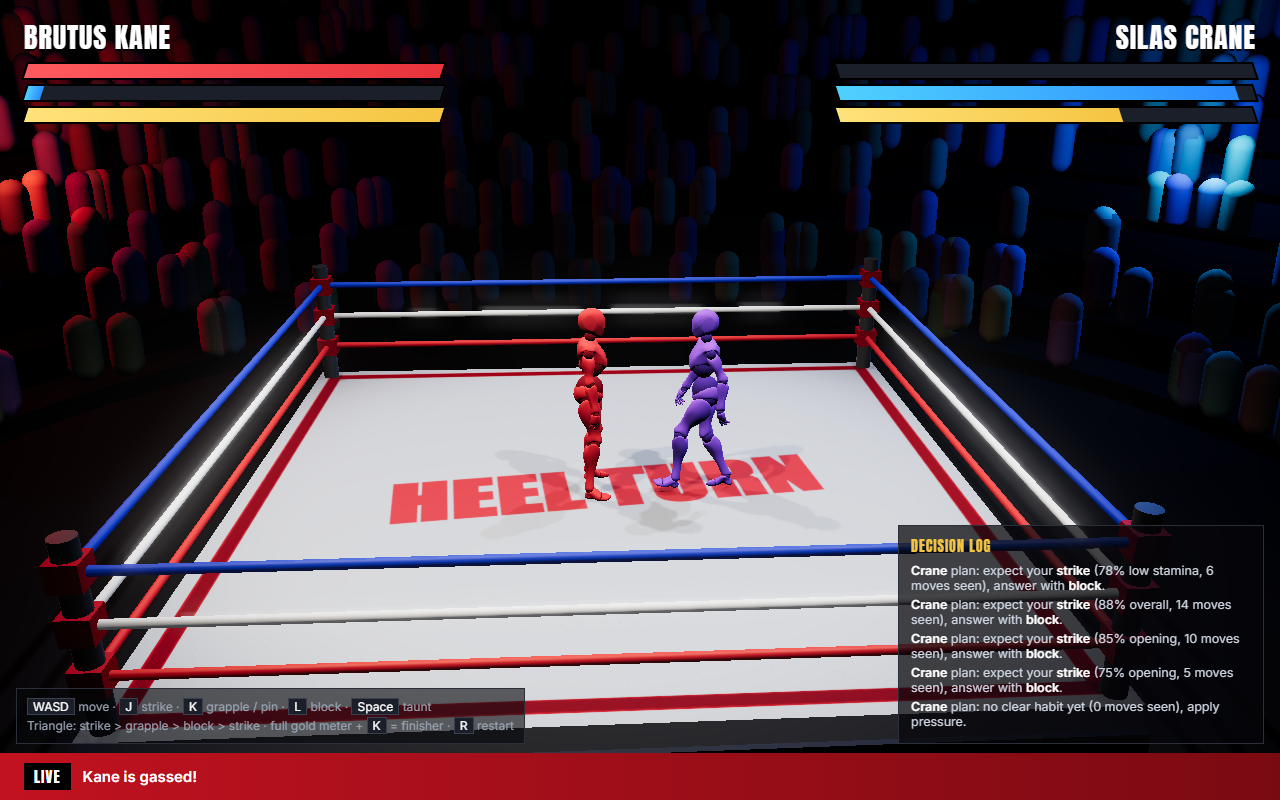
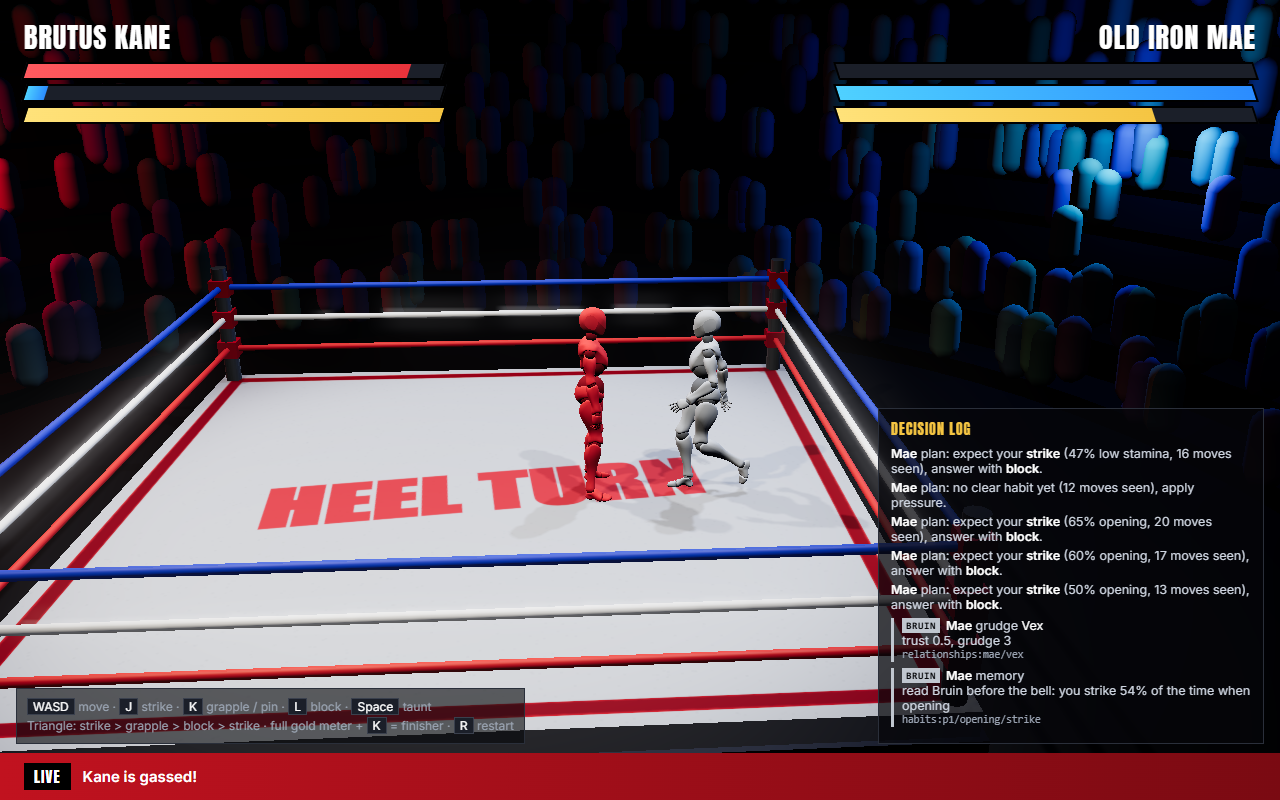
feat(memory): sim facts flow into Bruin; the next match's AI reads the marts
Every sim fact is appended to bruin/data/events.jsonl in the stg_events schema (roster ids,
situation), starting from the fixtures so seeded grudges survive. Match end kicks a Bruin
refresh server side (vite plugin for exhibition, the Colyseus room for online) without blocking
play. Before the bell the AI reads habits_all and feelings_of and logs the rows it cites.
bruin query locks the DuckDB file, so mart reads run one at a time.

Exhibition now picks a random opponent after the player's pick (no opponent step).

Verified: python game/ui/agents_check.py http://localhost:5173 2
events 464 -> 499 -> 535; habits:p1/opening/strike n 7 -> 16 -> 27.

diff --git a/game/agent-layer.js b/game/agent-layer.js
@@ -1,0 +1,96 @@
+// The sponsor-judged agent layer, seen from the client: Bruin memory (facts out, marts in), BAND agent
+// plans in the decision log, and the booth (voice). main.js calls the hooks; nothing here blocks a frame.
+//   const layer = createAgentLayer({ logRow, call });
+//   layer.matchStart({ match, wrestlers: [id, id], humans: [bool, bool] })  -> Promise<habits|null>
+//   layer.facts(facts)  layer.tick(simState)  layer.matchEnd()
+const SIM_TO_ROSTER = { kane: 'brutus' };
+const NAMES = { vex: 'Vex', kane: 'Kane', brutus: 'Kane', silas: 'Crane', mae: 'Mae', lou: 'Lou', commissioner: 'Commissioner' };
+const TINT = { vex: '#2b8cff', kane: '#e8333b', silas: '#8b5cf6', mae: '#c0c6cf', lou: '#f1f1f1' };
+const esc = (s) => String(s ?? '').replace(/[&<>"]/g, (c) => ({ '&': '&amp;', '<': '&lt;', '>': '&gt;', '"': '&quot;' }[c]));
+const post = (url, body) => fetch(url, { method: 'POST', headers: { 'Content-Type': 'application/json' }, body: JSON.stringify(body) });
+
+export function createAgentLayer({ logRow, call }) {
+  let cur = null; // { match, ids, humans, wrestlers, buf, flushT }
+  const debug = { written: 0, memory: null, plans: [], agents: null, errors: [] };
+  window.HEEL_DEBUG = () => debug;
+
+  function ids(wrestlers, humans) {
+    let n = 0; return wrestlers.map((id, i) => (humans[i] ? `p${++n}` : SIM_TO_ROSTER[id] || id));
+  }
+  function flush() {
+    if (!cur || !cur.buf.length) return Promise.resolve();
+    const facts = cur.buf; cur.buf = [];
+    return post('/mem/events', { match: cur.match, ids: cur.ids, facts })
+      .then((r) => r.json()).then((r) => { debug.written += r.written || 0; })
+      .catch((e) => debug.errors.push('mem/events ' + e.message));
+  }
+
+  async function matchStart({ match, wrestlers, humans }) {
+    if (cur) { clearInterval(cur.flushT); flush(); }
+    cur = { match, wrestlers, humans, ids: ids(wrestlers, humans), buf: [], flushT: setInterval(flush, 1000) };
+    const ai = wrestlers.find((_, i) => !humans[i]);
+    if (!ai) return null;
+    // Memory: the AI reads the player's habits and its grudges from the Bruin marts before the bell.
+    try {
+      const mem = await fetch(`/mem/for?player=p1&wrestler=${ai}`).then((r) => r.json());
+      debug.memory = mem;
+      if (mem.error) throw new Error(mem.error);
+      const habits = {}; let best = null;
+      for (const [sit, moves] of Object.entries(mem.habits || {})) {
+        habits[sit] = {};
+        for (const [mv, r] of Object.entries(moves)) {
+          habits[sit][mv] = 1 + Number(r.n || 0);
+          if (!best || r.n > best.n) best = { sit, mv, ...r };
+        }
+      }
+      const who = NAMES[ai] || ai;
+      if (best) logRow(planHtml({ wrestler: ai, intent: 'memory', reason: `read Bruin before the bell: you ${best.mv} ${Math.round(best.share * 100)}% of the time when ${best.sit.replace('_', ' ')}`, cites: [best.cite] }, 'BRUIN'));
+      else logRow(planHtml({ wrestler: ai, intent: 'memory', reason: 'Bruin has no habits for you yet: first meeting', cites: [] }, 'BRUIN'));
+      const g = (mem.feelings || [])[0];
+      if (g && g.grudge > 0) logRow(planHtml({ wrestler: ai, intent: 'grudge', target: g.about, reason: `trust ${g.trust}, grudge ${g.grudge}${g.last_betrayal ? `, betrayed in ${g.last_betrayal}` : ''}`, cites: [g.cite] }, 'BRUIN'));
+      debug.memoryText = `${who} habits from Bruin`;
+      return best ? habits : null;
+    } catch (e) {
+      debug.errors.push('mem/for ' + e.message);
+      return null;
+    }
+  }
+
+  function facts(list) { if (cur) cur.buf.push(...list); }
+
+  async function matchEnd() {
+    if (!cur) return;
+    clearInterval(cur.flushT);
+    await flush();
+    post('/mem/end', { match: cur.match }).catch(() => {}); // Bruin refresh runs server side; never awaited
+  }
+
+  return { matchStart, facts, matchEnd, tick() {}, debug };
+}
+
+// One decision-log row: source chip, who -> intent (target), the reason, then the mart rows it cites.
+export function planHtml(p, source = 'BAND') {
+  const who = NAMES[p.wrestler] || p.wrestler, tint = TINT[p.wrestler] || '#f5c542';
+  const tgt = p.target ? ` <span class="dl-t">${esc(NAMES[p.target] || p.target)}</span>` : '';
+  const verdict = p.vetoed_by ? ` <span class="dl-v no">blocked by ${esc(p.vetoed_by)}</span>` : p.approved_by ? ` <span class="dl-v">approved by ${esc(p.approved_by)}</span>` : '';
+  const cites = (p.cites || []).length ? `<span class="dl-c">${(p.cites || []).map(esc).join(' · ')}</span>` : '';
+  return `<span class="dl-row" style="--tint:${tint}"><span class="dl-src">${source}</span><em>${esc(who)}</em> ${esc(String(p.intent).replace('_', ' '))}${tgt}${verdict}`
+    + `<span class="dl-r">${esc(p.reason)}</span>${cites}</span>`;
+}
+
+// Decision-log styling for agent rows (injected so the shell's index.html stays the shell's).
+const css = document.createElement('style');
+css.textContent = `
+.log { width: 360px; max-height: 42vh; }
+.log p:has(.dl-row) { margin: 6px 0; }
+.dl-row { display: block; border-left: 3px solid var(--tint); padding-left: 8px; animation: dl-in .18s cubic-bezier(.2,.8,.2,1); }
+.dl-src { font: 600 9.5px/1 ui-monospace, Consolas, monospace; letter-spacing: .08em; color: #05060a; background: var(--tint); padding: 2px 4px; margin-right: 6px; vertical-align: 1px; }
+.dl-t { color: #fff; }
+.dl-v { color: #7ee0a1; font-size: 11px; } .dl-v.no { color: #ff8a8a; }
+.dl-r { display: block; color: #cfd6e1; }
+.dl-c { display: block; font: 10.5px/1.35 ui-monospace, Consolas, monospace; color: #9aa3b2; word-break: break-word; }
+@keyframes dl-in { from { opacity: 0; transform: translateY(-3px); } }
+@media (prefers-reduced-motion: reduce) { .dl-row { animation: none; } }
+@media (max-width: 720px) { .log { width: auto; left: 16px; max-height: 30vh; } }
+`;
+document.head.appendChild(css);

diff --git a/game/server/memory.js b/game/server/memory.js
@@ -1,0 +1,92 @@
+// Game memory on the server side: sim facts -> bruin/data/events.jsonl, a Bruin refresh between matches, and
+// cached mart reads for the next match. Used by the Colyseus room directly and by the browser through the
+// vite plugin (game/server/memory-plugin.js) for exhibition matches.
+import { appendFileSync, copyFileSync, existsSync, readFileSync, statSync } from 'node:fs';
+import { dirname, join } from 'node:path';
+import { fileURLToPath } from 'node:url';
+import { refreshMemory, ask } from '../../bruin/memory.mjs';
+
+const BRUIN = join(dirname(fileURLToPath(import.meta.url)), '..', '..', 'bruin');
+// Keys for the Bruin inference asset come from the repo .env (never logged); the shell's env wins.
+const ENV = join(BRUIN, '..', '.env');
+if (existsSync(ENV)) for (const line of readFileSync(ENV, 'utf8').split(/\r?\n/)) {
+  const m = line.match(/^\s*([A-Z0-9_]+)\s*=\s*(.*?)\s*$/);
+  if (m && !(m[1] in process.env)) process.env[m[1]] = m[2].replace(/^(['"])(.*)\1$/, '$2');
+}
+export const EVENTS = join(BRUIN, 'data', 'events.jsonl');
+const FIXTURES = join(BRUIN, 'fixtures', 'events.jsonl');
+const KINDS = new Set(['strike', 'grapple', 'block', 'reversal', 'knockdown', 'pin', 'kickout', 'elimination', 'entry',
+  'taunt', 'alliance_offer', 'alliance_reply', 'betray', 'plan', 'commentary']);
+const SITUATIONS = new Set(['opening', 'after_block', 'low_stamina', 'cornered']);
+const ROSTER = new Set(readFileSync(join(BRUIN, 'assets', 'seeds', 'wrestlers.csv'), 'utf8')
+  .split(/\r?\n/).slice(1).map((l) => l.split(',')[0]).filter(Boolean));
+const SIM_TO_ROSTER = { kane: 'brutus' }; // the sim's id for Brutus Kane
+
+// A sim slot -> Bruin roster id: humans are p1/p2 (habits are per player), AI slots are their wrestler.
+export function rosterIds(wrestlerIds, humanSlots) {
+  let n = 0;
+  return wrestlerIds.map((id, i) => (humanSlots[i] ? `p${++n}` : SIM_TO_ROSTER[id] || id));
+}
+
+const seq = new Map();
+// facts: sim 'fact' events (slots). ids: rosterIds(...). Drops anything the staging checks would reject,
+// since one bad row blocks the whole refresh.
+export function appendFacts(match, facts, ids) {
+  if (!existsSync(EVENTS) || statSync(EVENTS).size === 0) copyFileSync(FIXTURES, EVENTS); // keep the seeded history
+  const lines = [];
+  for (const f of facts) {
+    const actor = ids[f.actor], target = f.target == null ? null : ids[f.target];
+    if (!KINDS.has(f.kind) || !SITUATIONS.has(f.situation) || !ROSTER.has(actor) || (target && !ROSTER.has(target))) continue;
+    const n = (seq.get(match) || 0) + 1; seq.set(match, n);
+    const row = { event_id: `${match}-${String(n).padStart(4, '0')}`, match, t_ms: f.t_ms, actor, kind: f.kind, situation: f.situation };
+    if (target) row.target = target;
+    if (typeof f.success === 'boolean') row.success = f.success;
+    if (f.text) row.text = f.text;
+    lines.push(JSON.stringify(row));
+  }
+  if (lines.length) appendFileSync(EVENTS, lines.join('\n') + '\n');
+  return lines.length;
+}
+
+// One refresh at a time; a request during a refresh queues exactly one more. Never awaited by the game loop.
+let running = null, again = false;
+export const status = { refreshes: 0, lastOk: null, lastMs: null, lastAt: null, running: false };
+export function refreshSoon() {
+  if (running) { again = true; return running; }
+  status.running = true;
+  const t0 = Date.now();
+  running = refreshMemory().then((ok) => {
+    Object.assign(status, { refreshes: status.refreshes + 1, lastOk: ok, lastMs: Date.now() - t0, lastAt: new Date().toISOString(), running: false });
+    cache.clear();
+    console.log(`[memory] bruin refresh ${ok ? 'ok' : 'FAILED (a check blocked it; last good marts kept)'} in ${status.lastMs} ms`);
+  }).finally(() => { running = null; if (again) { again = false; refreshSoon(); } });
+  return running;
+}
+
+// Mart reads, cached until the next refresh (memory only changes between matches).
+// bruin query opens the DuckDB file read-write, so two at once fail on the lock: reads go one at a time.
+const cache = new Map();
+let lane = Promise.resolve();
+export async function askCached(name, vars = {}) {
+  const k = name + JSON.stringify(vars);
+  if (!cache.has(k)) {
+    const p = lane.then(() => ask(name, vars));
+    lane = p.catch(() => {});
+    cache.set(k, p.catch((e) => { cache.delete(k); throw e; }));
+  }
+  return cache.get(k);
+}
+
+// What the next match's AI reads: the player's habits in every situation, and who it holds grudges against.
+export async function memoryFor(player, wrestler) {
+  if (running) await running; // do not read half-written marts
+  const habits = {};
+  for (const row of await askCached('habits_all', { player })) (habits[row.situation] ||= {})[row.move] = { n: row.n, share: row.share, cite: row.cite };
+  const feelings = wrestler ? await askCached('feelings_of', { me: SIM_TO_ROSTER[wrestler] || wrestler }).catch(() => []) : [];
+  return { habits, feelings, refresh: { ...status } };
+}
+
+export function eventCount() {
+  if (!existsSync(EVENTS)) return 0;
+  return readFileSync(EVENTS, 'utf8').split('\n').filter(Boolean).length;
+}

diff --git a/game/main.js b/game/main.js
@@ -8,7 +8,8 @@ import { RenderPass } from 'three/examples/jsm/postprocessing/RenderPass.js';
 import { UnrealBloomPass } from 'three/examples/jsm/postprocessing/UnrealBloomPass.js';
 import { OutputPass } from 'three/examples/jsm/postprocessing/OutputPass.js';
 import { Client } from '@colyseus/sdk';
-import { createMatch, step, newControl, ROSTER, INTRO_SECS } from './shared/sim.js';
+import { createMatch, step, newControl, normHabits, ROSTER, INTRO_SECS } from './shared/sim.js';
+import { createAgentLayer } from './agent-layer.js';
 import { playPaired, playSolo, updateMoves, isBusy, stopMoves, getRig } from './moves/index.js';
 
 // ---------- renderer / scene ----------
@@ -146,7 +147,7 @@ function call(text) { const c = $('call'); if (c) c.textContent = text; }
 function log(html) {
   const l = $('log'); if (!l) return;
   const p = document.createElement('p'); p.innerHTML = html; l.prepend(p);
-  while (l.children.length > 9) l.lastChild.remove();
+  while (l.children.length > 12) l.lastChild.remove();
 }
 function setText(id, text) { const e = $(id); if (e) e.textContent = text; }
 function setWidth(id, pct) { const e = $(id); if (e) e.style.width = pct + '%'; }
@@ -171,6 +172,8 @@ function showInvite(link) {
   el.querySelector('input').value = link; el.style.display = 'flex';
 }
 function hideInvite() { const el = $('heel-invite'); if (el) el.style.display = 'none'; }
+
+const layer = createAgentLayer({ logRow: (html) => log(html), call: (t) => call(t) });
 
 // ---------- wrestler views (render only; state lives in shared/sim.js) ----------
 const loader = new GLTFLoader();
@@ -265,6 +268,11 @@ function startLocal(p1, p2) {
   const match = createMatch(p1, p2, savedHabits);
   savedHabits = match.habits;
   session = { mode: 'exhibition', slot: 0, match, ctl: [newControl(true), newControl(false)] };
+  // Bruin memory: the AI's habit table for you comes from the marts when they answer before/at the bell.
+  const id = 'm' + Date.now().toString(36);
+  layer.matchStart({ match: id, wrestlers: [p1, p2], humans: [true, false] }).then((h) => {
+    if (h && session?.match === match) { match.habits = normHabits(h); savedHabits = match.habits; }
+  });
 }
 
 const ROOM_CHARS = 'ABCDEFGHJKLMNPQRSTUVWXYZ23456789';
@@ -326,6 +334,8 @@ let shake = 0;
 // Shell settings: { volume, shake } on window.HEEL_SETTINGS (read live, so 'heel:settings' needs no listener).
 const shakeScale = () => (window.HEEL_SETTINGS?.shake === false || window.HEEL_SETTINGS?.shake === 0 ? 0 : 1);
 function handleEvents(evs) {
+  const facts = evs.filter((e) => e.k === 'fact');
+  if (facts.length && session?.mode === 'exhibition') layer.facts(facts);
   for (const e of evs) {
     if (e.k === 'banner') banner(e.text, e.secs);
     else if (e.k === 'call') call(e.text);
@@ -348,6 +358,7 @@ function matchEnded(e) {
     winnerId: st.w[e.winner].id, winnerName: st.w[e.winner].name, mode: session.mode, mySlot: Math.max(0, session.slot),
   };
   for (const cb of endCbs) { try { cb(result); } catch (err) { console.error(err); } }
+  if (session.mode === 'exhibition') layer.matchEnd();
 }
 
 // Render state: the local match, or the server snapshot interpolated INTERP_MS behind real time.

diff --git a/game/server/memory-plugin.js b/game/server/memory-plugin.js
@@ -1,0 +1,39 @@
+// Vite dev plugin: the browser's exhibition matches reach game/server/memory.js over /mem/*.
+//   POST /mem/events {match, ids, facts}   append sim facts to bruin/data/events.jsonl
+//   POST /mem/end    {match}               kick a Bruin refresh (returns at once)
+//   GET  /mem/for?player=p1&wrestler=kane  habits + feelings from the marts for the next match
+//   GET  /mem/status                       refresh status and the events row count
+import { appendFacts, refreshSoon, memoryFor, status, eventCount } from './memory.js';
+
+const SAFE = /^[a-z0-9_]+$/;
+const body = (req) => new Promise((res, rej) => {
+  let s = ''; req.on('data', (c) => { s += c; if (s.length > 1 << 20) req.destroy(); });
+  req.on('end', () => { try { res(JSON.parse(s || '{}')); } catch (e) { rej(e); } }); req.on('error', rej);
+});
+const send = (res, code, obj) => { res.statusCode = code; res.setHeader('Content-Type', 'application/json'); res.end(JSON.stringify(obj)); };
+
+export default function memoryPlugin() {
+  return {
+    name: 'heel-memory',
+    configureServer(server) {
+      server.middlewares.use('/mem', async (req, res) => {
+        try {
+          const u = new URL(req.url, 'http://x');
+          if (req.method === 'POST' && u.pathname === '/events') {
+            const { match, ids, facts } = await body(req);
+            if (!SAFE.test(match || '') || !Array.isArray(ids) || !Array.isArray(facts)) return send(res, 400, { error: 'bad body' });
+            return send(res, 200, { written: appendFacts(match, facts, ids) });
+          }
+          if (req.method === 'POST' && u.pathname === '/end') { refreshSoon(); return send(res, 202, { refreshing: true }); }
+          if (u.pathname === '/for') {
+            const player = u.searchParams.get('player') || 'p1', wrestler = u.searchParams.get('wrestler') || '';
+            if (!SAFE.test(player) || (wrestler && !SAFE.test(wrestler))) return send(res, 400, { error: 'bad ids' });
+            return send(res, 200, await memoryFor(player, wrestler));
+          }
+          if (u.pathname === '/status') return send(res, 200, { ...status, events: eventCount() });
+          send(res, 404, { error: 'not found' });
+        } catch (e) { send(res, 500, { error: String(e?.message || e) }); }
+      });
+    },
+  };
+}

diff --git a/game/server/index.js b/game/server/index.js
@@ -3,6 +3,7 @@
 // driven by the scripted AI.
 import { Server, Room } from 'colyseus';
 import { createMatch, step, snapshot, newControl, INPUTS, ROSTER, INTRO_SECS } from '../shared/sim.js';
+import { appendFacts, refreshSoon, rosterIds } from './memory.js';
 
 const TICK_MS = 1000 / 30;
 const WAIT_FOR_RIVAL_MS = 30000; // an online host waits this long for the invite link before the AI fills slot 2
@@ -61,10 +62,22 @@ class RingRoom extends Room {
     const waiting = !this.slots[1] && Date.now() < this.waitUntil;
     if (waiting) this.match.introT = INTRO_SECS; // hold the intro until the rival joins or the wait ends
     else step(this.match, dt, this.ctl);
+    this.remember();
     this.broadcast('s', { ...snapshot(this.match), waiting, ev: this.match.events, slots: this.slots });
     this.match.events = [];
   }
 }
+
+// Sim facts -> Bruin events (one match id per sim match); the refresh runs between matches, off the tick.
+RingRoom.prototype.remember = function remember() {
+  const m = this.match, facts = m.events.filter((e) => e.k === 'fact');
+  if (!m.memId) m.memId = 'm' + Date.now().toString(36);
+  if (facts.length) {
+    try { appendFacts(m.memId, facts, rosterIds(m.w.map((w) => w.id), this.ctl.map((c) => c.human))); }
+    catch (e) { console.warn('[memory] append failed', e.message); }
+  }
+  if (m.events.some((e) => e.k === 'end')) refreshSoon();
+};
 
 function clampAxis(v) { const n = Number(v); return Number.isFinite(n) ? Math.max(-1, Math.min(1, n)) : 0; }
 

diff --git a/game/ui/menu.js b/game/ui/menu.js
@@ -307,8 +307,10 @@ function pick(id) {
   if (selPhase === 'p1') {
     match.p1 = id;
     if (match.mode === 'online') { match.p2 = null; return toVersus(); }
-    selPhase = 'p2'; paintSelect();
-    setFocus((ROSTER.findIndex((w) => w.id === id) + 1) % ROSTER.length, false);
+    // Exhibition: the bookers pick your opponent from the other three, then straight to the versus screen.
+    const others = ROSTER.filter((w) => w.id !== id);
+    match.p2 = others[Math.floor(Math.random() * others.length)].id;
+    toVersus();
   } else { match.p2 = id; toVersus(); }
 }
 

diff --git a/game/vite.config.js b/game/vite.config.js
@@ -1,1 +1,13 @@
-export default { build: { target: 'esnext' } };
+import memoryPlugin from './server/memory-plugin.js';
+
+// Dev: /mem -> Bruin memory (plugin), /agents -> python -m agents.server (8788), /voice/api -> voice/server.js (8787).
+export default {
+  build: { target: 'esnext' },
+  plugins: [memoryPlugin()],
+  server: {
+    proxy: {
+      '/agents': { target: 'http://localhost:8788', rewrite: (p) => p.replace(/^\/agents/, '') },
+      '/voice/api': { target: 'http://localhost:8787' },
+    },
+  },
+};

diff --git a/game/ui/agents_check.py b/game/ui/agents_check.py
@@ -23,7 +23,14 @@ with sync_playwright() as p:
     pg.goto(URL)
     pg.wait_for_function("window.HEEL_UI && HEEL_UI.state === 'title'", timeout=30000)
     def key(k, w=400): pg.keyboard.press(k); pg.wait_for_timeout(w)
-    key("Enter"); key("Enter"); key("ArrowRight", 200); key("Enter"); key("Enter", 300)
+    def until(state, k="Enter"):
+        for _ in range(20):
+            if pg.evaluate("HEEL_UI.state") == state: return
+            key(k, 500)
+        raise SystemExit(f"menu stuck at {pg.evaluate('HEEL_UI.state')}, wanted {state}")
+    until("menu"); key("Enter", 600)  # Exhibition is the first item
+    until("select", "Escape") if pg.evaluate("HEEL_UI.state") != "select" else None
+    key("ArrowRight", 200); key("Enter", 300)  # pick P1; the opponent is random
     print("menu state:", pg.evaluate("HEEL_UI.state"))
     for n in range(MATCHES):
         pg.wait_for_function("HEEL_UI.state === 'match'", timeout=15000)
@@ -56,8 +63,15 @@ with sync_playwright() as p:
         pg.wait_for_timeout(1500)
         print(f"  end state: {pg.evaluate('HEEL_UI.state')}")
         if n + 1 < MATCHES:
-            pg.wait_for_timeout(int(pg.evaluate("window.HEEL_REMATCH_WAIT_MS || 0")))
+            # wait for the server-side Bruin refresh this match triggered, so the next match reads it
+            for _ in range(90):
+                st = pg.evaluate("fetch('/mem/status').then(r => r.json())")
+                if st.get("refreshes", 0) >= n + 1 and not st.get("running"): break
+                pg.wait_for_timeout(1000)
+            print("  bruin:", st)
             pg.evaluate("document.querySelector('[data-act=rematch]').click()")
+    pg.wait_for_timeout(1000)
+    print("final bruin status:", pg.evaluate("fetch('/mem/status').then(r => r.json())"))
     print("ERRORS:", errs or "none")
     b.close()
 print("PASS counter plan seen in the decision log" if ok else "FAIL no counter plan in the decision log")
